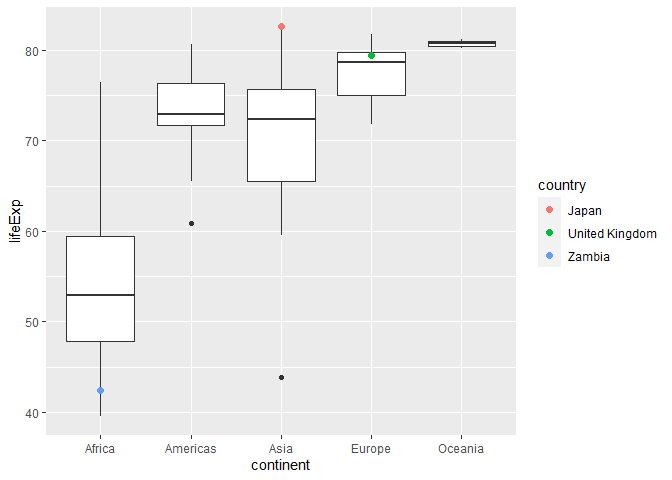
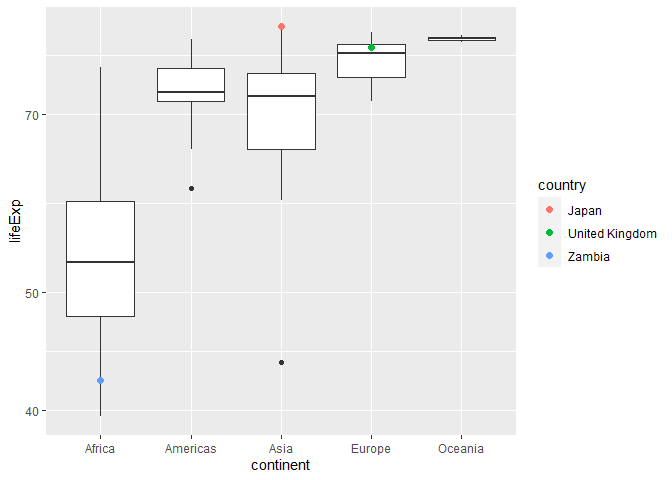
revised challenge 4

diff --git a/challenges/c04-gapminder-assignment.md b/challenges/c04-gapminder-assignment.md
@@ -143,9 +143,13 @@ glimpse(gapminder)
 
 ``` r
 ## TASK: Find the largest and smallest values of `year` in `gapminder`
-  
-year_max <- max(pull(gapminder, year))
-year_min <- min(pull(gapminder, year))
+
+year_max <- gapminder %>% 
+  pull(year) %>% 
+  max() 
+year_min <- gapminder %>% 
+  pull(year) %>% 
+  min() 
 
 year_max
 ```
@@ -240,6 +244,7 @@ gapminder %>%
   filter(year == year_min)  %>%
   select(continent, gdpPercap)   %>%
   ggplot(aes(x = continent, y = gdpPercap)) +
+  scale_y_log10()+
   geom_boxplot() +
   ggtitle("Continent vs. GDP per Capita in 1952")
 ```
@@ -304,11 +309,11 @@ gapminder %>%
 
   ggplot(aes(continent, lifeExp)) +
   geom_boxplot() +
+  scale_y_log10() +
   geom_point(
     data = . %>% filter(country %in% c("United Kingdom", "Japan", "Zambia")),
     mapping = aes(color = country),
-    size = 2
-  )
+    size = 2) 
 ```
 
 ![](c04-gapminder-assignment_files/figure-gfm/layer-filter-1.png)<!-- -->
@@ -326,12 +331,13 @@ gapminder %>%
 
   ggplot(aes(continent, gdpPercap)) +
   geom_boxplot() +
+  scale_y_log10()+
   geom_point(
     data = . %>% filter(country %in% c("Angola", "Bahrain", "Canada", "Gabon", "Kuwait", "South Africa", "Switzerland", "United States", "Venezuela")),
     mapping = aes(color = country),
     size = 2
   ) + 
-    ggtitle('Continent vs. GDP per capita in 1952')
+    ggtitle('Continent vs. GDP per capita in 1952') 
 ```
 
 ![](c04-gapminder-assignment_files/figure-gfm/q4-task-1.png)<!-- -->
@@ -367,21 +373,6 @@ gapminder %>%
     ## # Groups:   continent [0]
     ## # … with 6 variables: country <fct>, continent <fct>, year <int>,
     ## #   lifeExp <dbl>, pop <int>, gdpPercap <dbl>
-
-``` r
-gapminder %>%
-  filter(year == max(year)) %>%
-  ggplot(aes(continent, gdpPercap)) +
-  geom_boxplot() +
-  geom_point(
-    data = . %>% filter(country %in% c("Botswana", "Canada", "Equatorial Guinea", "Gabon", "Libya", "Mauritius", "South Africa", "United States")),
-    mapping = aes(color = country),
-    size = 2
-  ) +
-  ggtitle('Continent vs. GDP per capita in 2007')
-```
-
-![](c04-gapminder-assignment_files/figure-gfm/unnamed-chunk-2-1.png)<!-- -->
 
 **Observations**:
 
